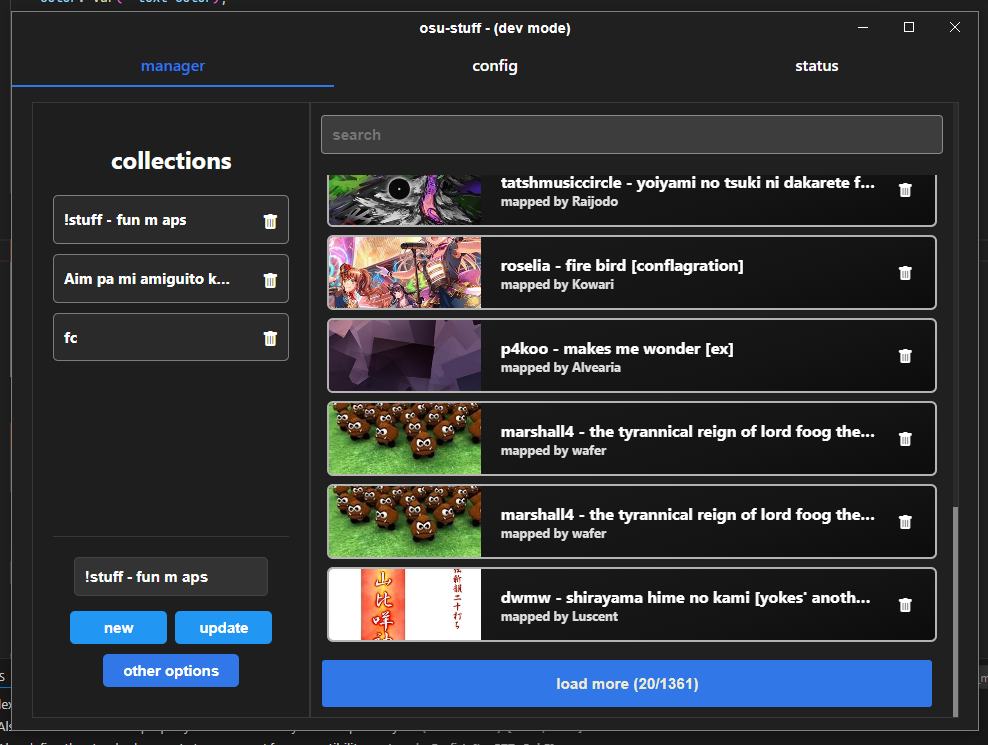
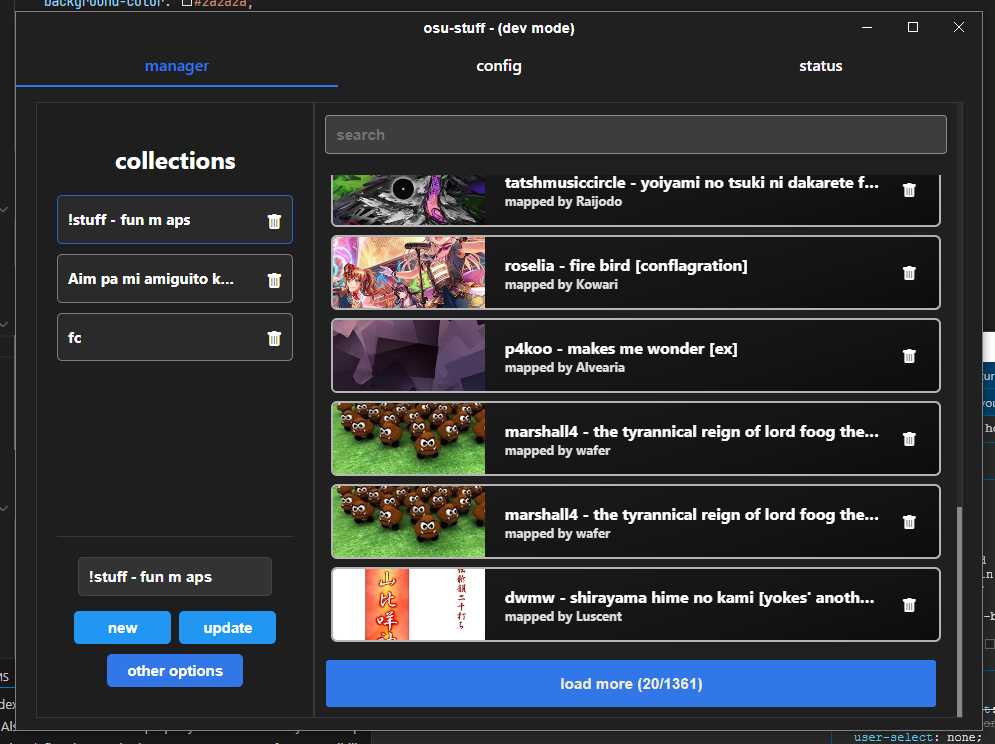
...

diff --git a/src/gui/index.css b/src/gui/index.css
@@ -836,6 +836,11 @@ a {
     border: 1px solid rgb(255 255 255 / 38%);
 }
 
+.collection-item.selected {
+    transition: 0.3s border;
+    border: 1px solid var(--button-hover-color);
+}
+
 .collection-name {
     font-size: 15px;
     overflow: hidden;
